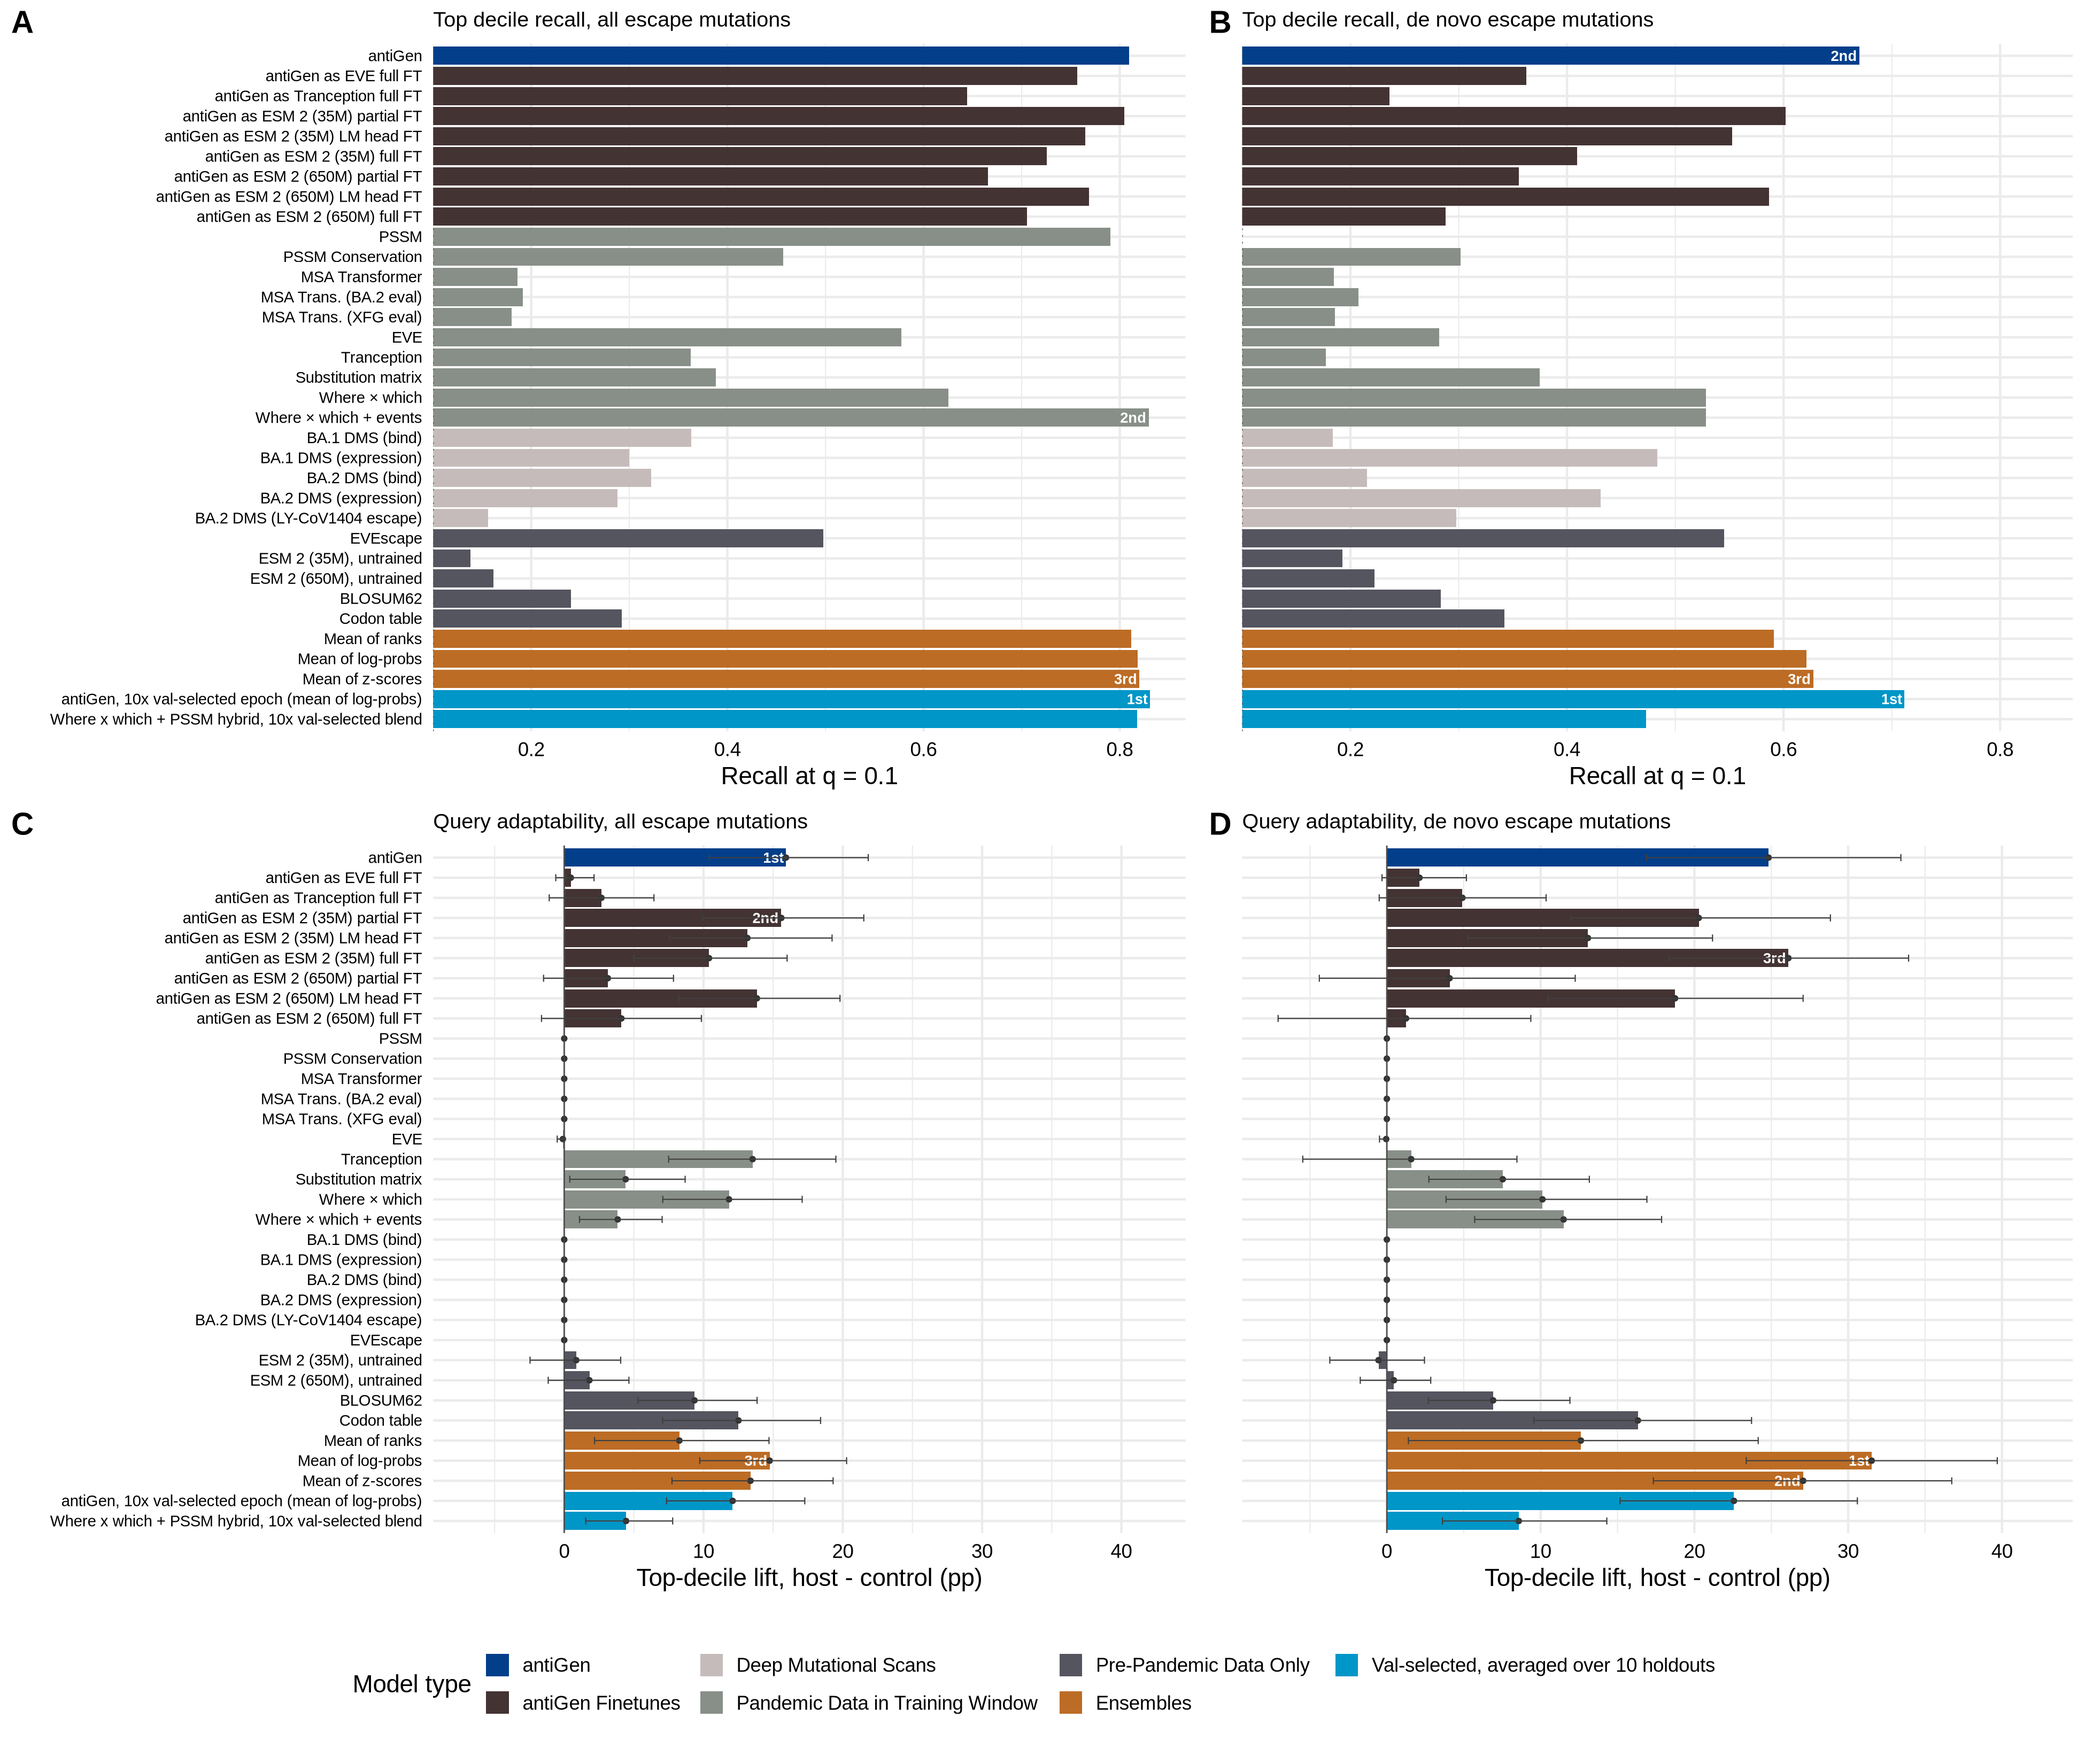
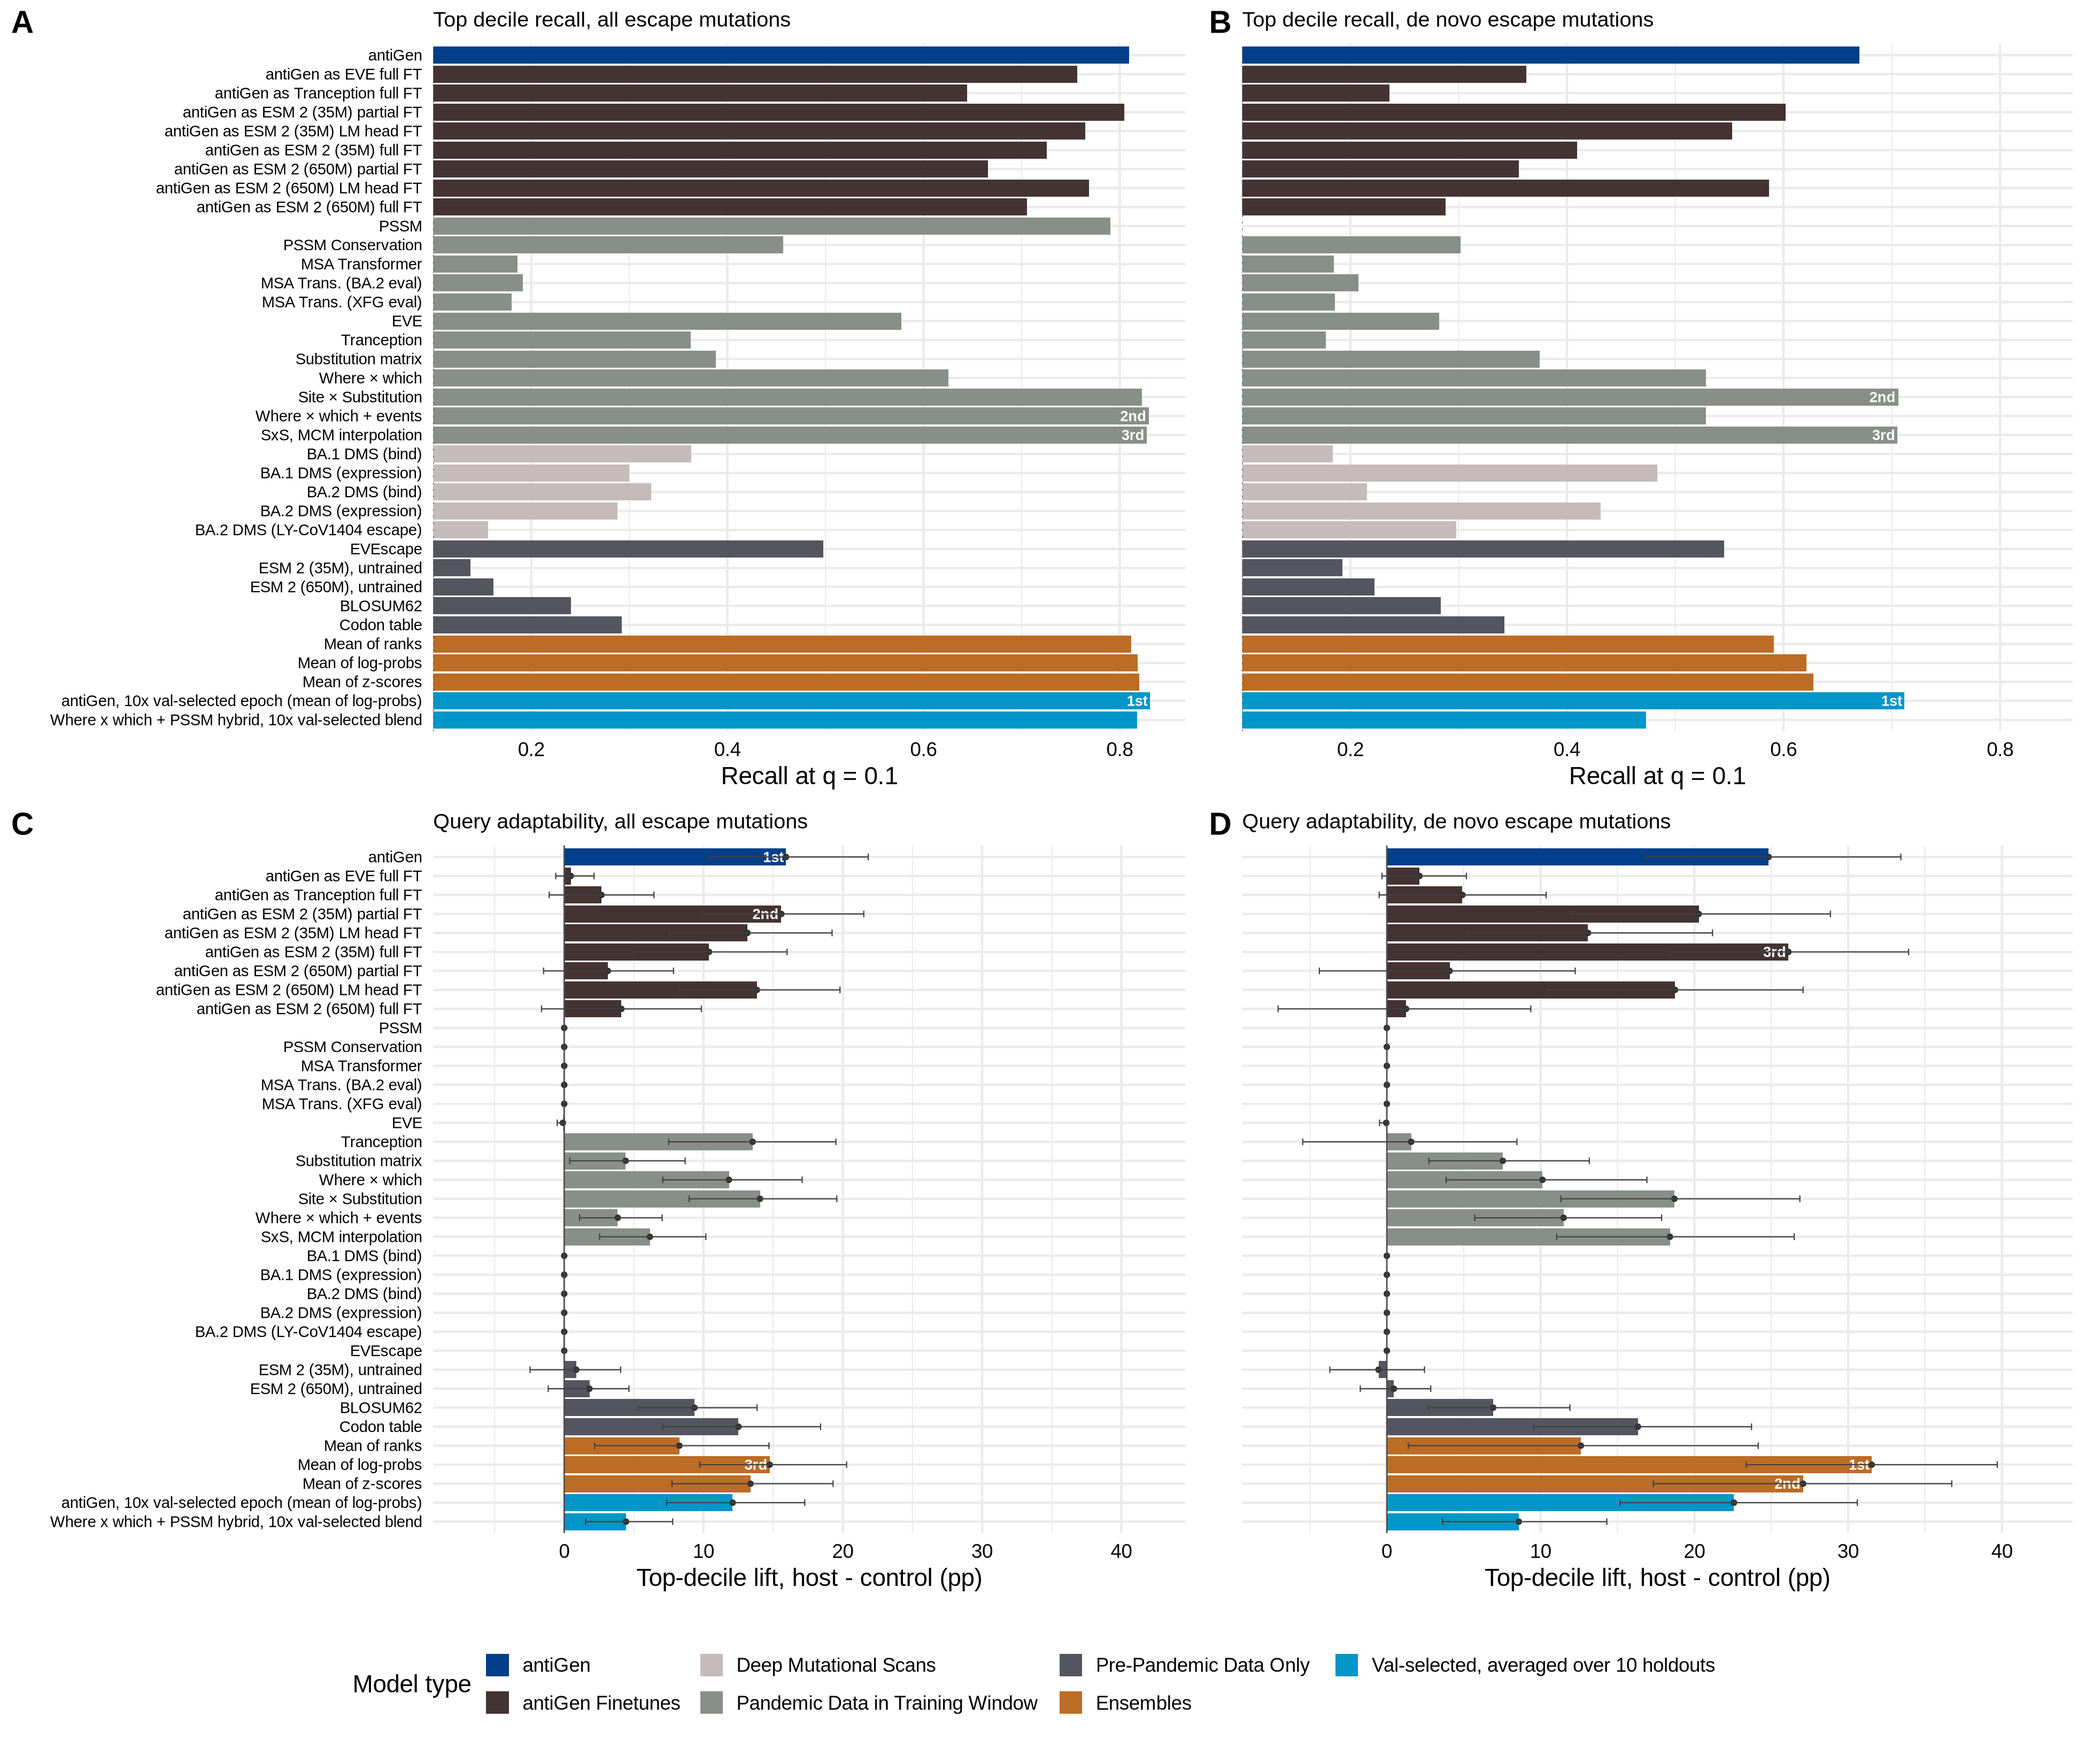
Carry the two counted baselines onto aa20_supp_coguk_eventwtd
The recall panels needed nothing: that figure evaluates fig_coguk_list_aa20.R,
which already opts into site_substitution and mcm_interpolation. The background
panels read the event-weighted re-pool of background_percell.csv, which was
generated before the rungs existed and sat stale at 45 models; re-running
background_event_weighted.py --weight hosts brings it to 47.

The gate came along for free, and is the reason to keep it: --weight none still
reproduces the published summary at 4.94e-07, now over 188 (model, cellset)
pairs rather than 180 -- eight more, exactly the two new models x four cellsets.
A re-pool that silently dropped them would have stayed at 180.

Both are NON-ZERO on the adaptability panels, unlike most of that figure's
roster. A fixed score map cannot have background lift at all; these index
M[wt_i, a] by the query's own residues and so condition on the background. They
beat their fitted siblings under event weighting as well as cell weighting --
de novo 18.7 pp against where_times_which's 10.1 -- so that ordering is not an
artefact of the pooling choice.

NOTES s112 addendum.

diff --git a/experiments/multitree/NOTES.md b/experiments/multitree/NOTES.md
@@ -11996,3 +11996,22 @@ and walltime have to move together; it now takes a `TIME` knob.
   vectors converted POSITIONAL -> NAMED (same colours to the same rungs; naming makes
   that independent of row order, which is what the comments there warn about).
 * `fig_coguk_list.R` / `_aa20.R`, `panels_sc2_export.R`, `figS_gate_macro.R`.
+
+### Addendum: the event-weighted supplement (same day)
+
+`aa20_supp_coguk_eventwtd` carries both rungs too. Its RECALL panels needed nothing --
+the figure evaluates `fig_coguk_list_aa20.R`, which now opts in -- but its BACKGROUND
+panels read `data/evals_sc2_background_aa20_eventwtd/`, a re-pool of
+`background_percell.csv` that was generated before the rungs existed and so sat stale
+at 45 models. Re-running `background_event_weighted.py --weight hosts` brings it to 47.
+
+The gate came along for free and is the reason to keep it: `--weight none` still
+reproduces the published summary, now over **188** (model, cellset) pairs rather than
+180 at the same 4.94e-07 -- eight more, which is exactly the two new models x four
+cellsets. A re-pool that silently dropped them would have shown up as 180.
+
+Both are NON-ZERO on the adaptability panels, unlike most of that figure's roster: a
+fixed score map cannot have background lift, but these index `M[wt_i, a]` by the
+query's own residues and so condition on the background. They beat their fitted
+siblings under event weighting as well as cell weighting -- de novo, 18.7 pp against
+where_times_which's 10.1 -- so the ordering is not an artefact of the pooling.
